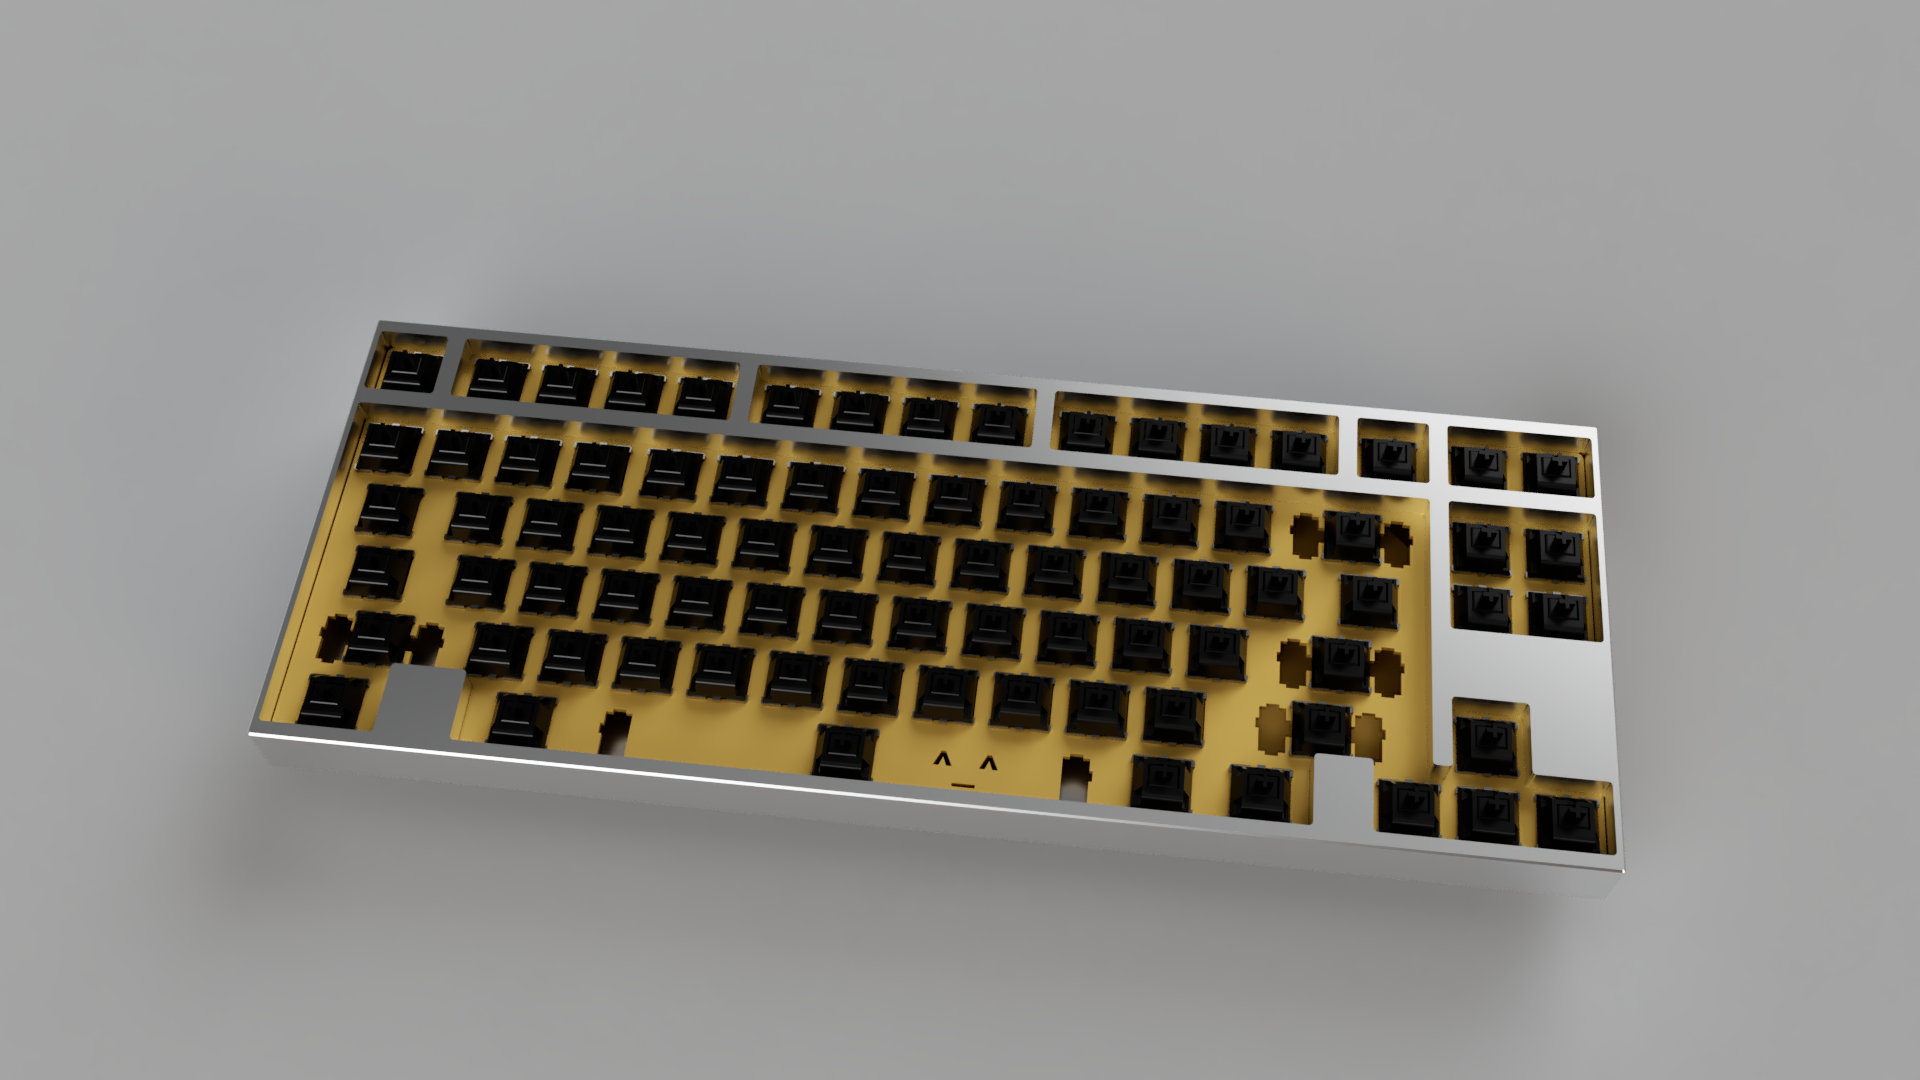
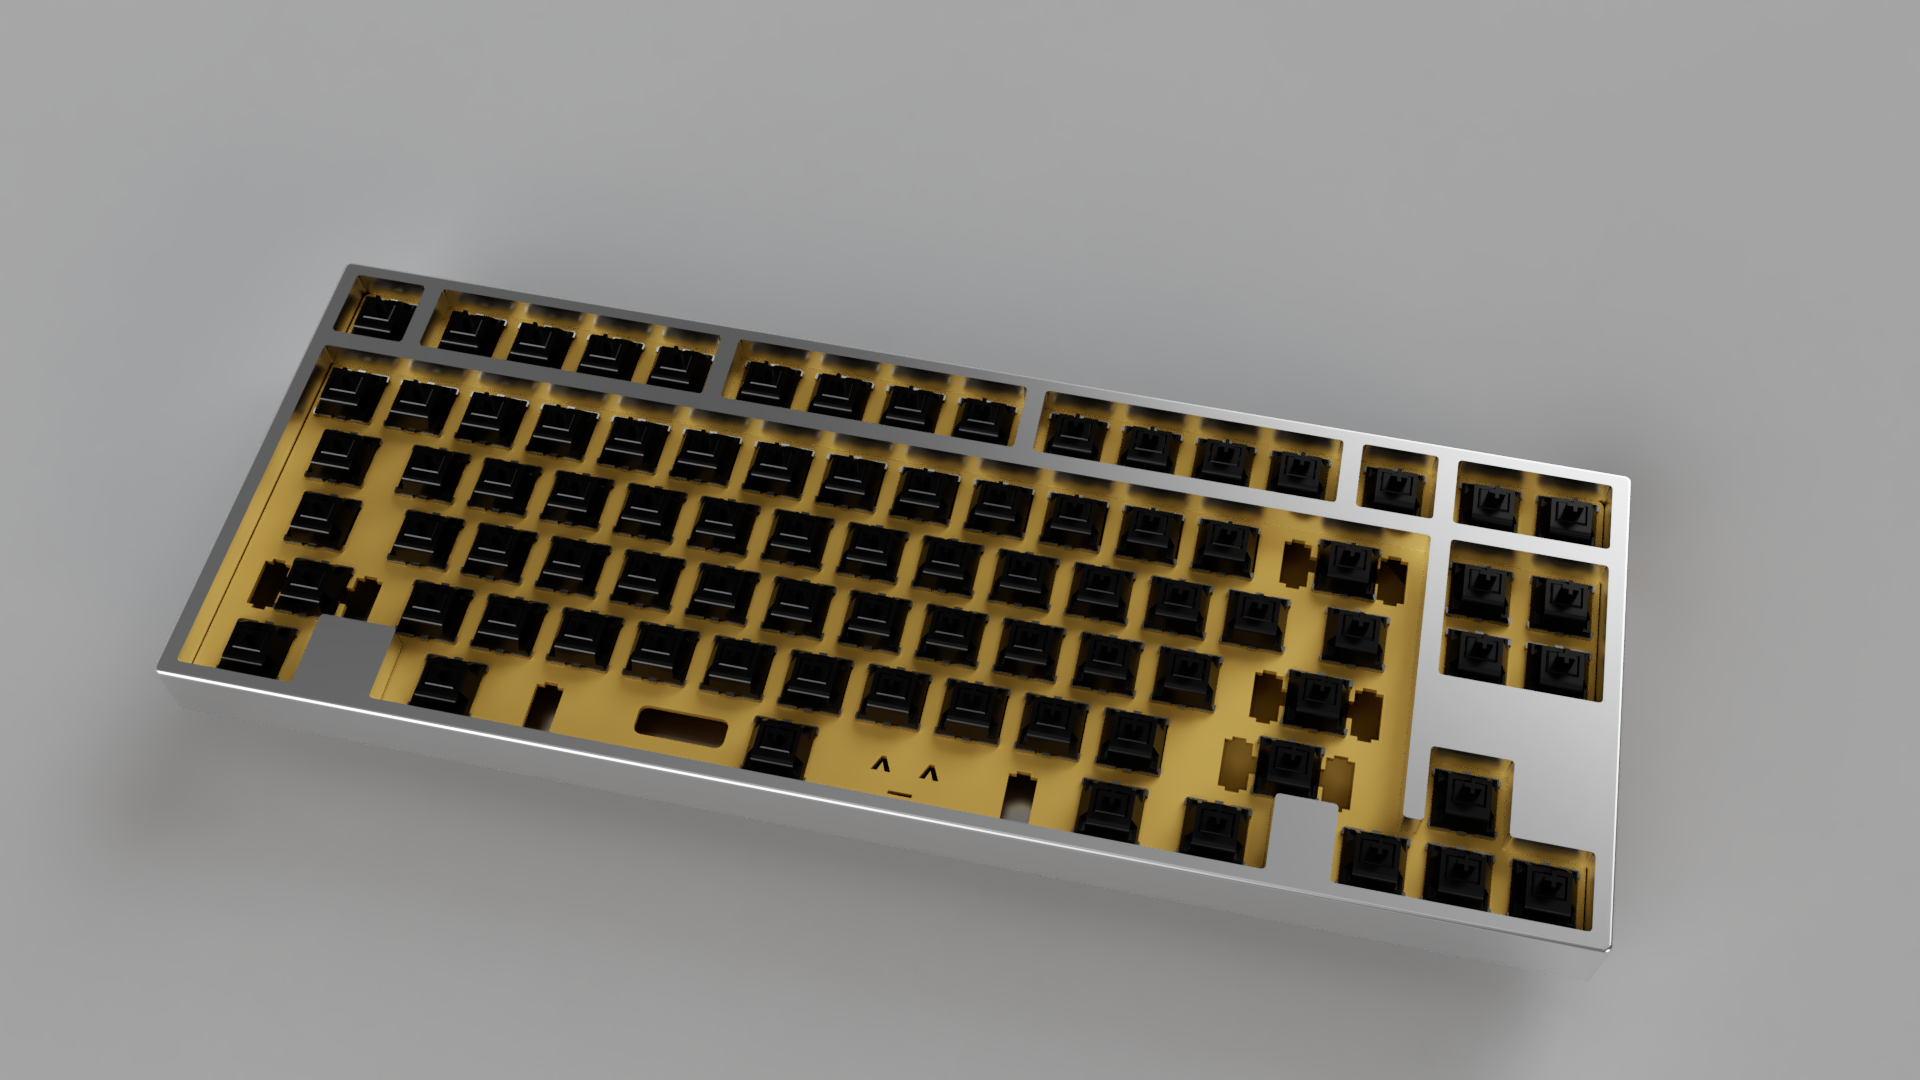
add image

Changed region(s): [[0.0625, 0.2444, 0.875, 0.8861]]

diff --git a/src/pages/archive/kb.js b/src/pages/archive/kb.js
@@ -33,7 +33,8 @@ export default function Uni () {
             <p>realforce.</p>
             <h2>My Render</h2>
             <h3>HK CTKL (Compact TKL)</h3>
-            <img src={withPrefix('files/HWCTKL.png')} />
+            <p><img src={withPrefix('files/HWCTKL.png')} /></p>
+            <p><img src={withPrefix('files/HWCTKL2.png')} /></p>
             <p>Inspired by Dio80.</p>
             <p>This is just render, it doesn't have actual screw holes for mounting and plate is not good.</p>
         </Layout>
